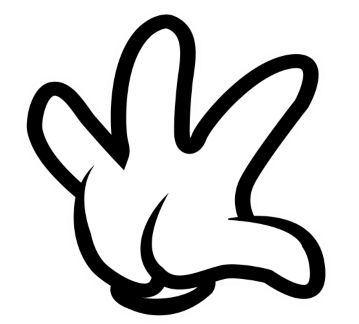
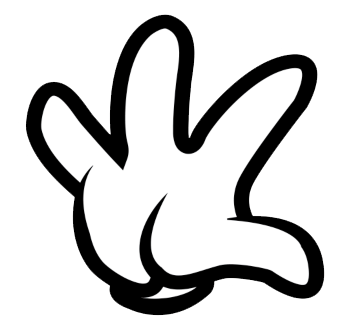
Made The Image better for the Rock hand and the scissior hand. Next Step is to organize the sound files into one folder. Afterwards, Get the Repo ready for Release.

diff --git a/Properties/Resources.Designer.cs b/Properties/Resources.Designer.cs
@@ -63,9 +63,9 @@ namespace Rock_paper_scissors.Properties {
         /// <summary>
         ///   Looks up a localized resource of type System.Drawing.Bitmap.
         /// </summary>
-        internal static System.Drawing.Bitmap Mickey_Rock2trans {
+        internal static System.Drawing.Bitmap MickeyRockBetter {
             get {
-                object obj = ResourceManager.GetObject("Mickey_Rock2trans", resourceCulture);
+                object obj = ResourceManager.GetObject("MickeyRockBetter", resourceCulture);
                 return ((System.Drawing.Bitmap)(obj));
             }
         }
@@ -73,9 +73,9 @@ namespace Rock_paper_scissors.Properties {
         /// <summary>
         ///   Looks up a localized resource of type System.Drawing.Bitmap.
         /// </summary>
-        internal static System.Drawing.Bitmap Mickey_Rock2transFLIPPEDforusebyCPU {
+        internal static System.Drawing.Bitmap MickeyRockBetterfortheplayer {
             get {
-                object obj = ResourceManager.GetObject("Mickey_Rock2transFLIPPEDforusebyCPU", resourceCulture);
+                object obj = ResourceManager.GetObject("MickeyRockBetterfortheplayer", resourceCulture);
                 return ((System.Drawing.Bitmap)(obj));
             }
         }

diff --git a/MainWindow.xaml.cs b/MainWindow.xaml.cs
@@ -73,7 +73,7 @@ namespace Rock_paper_scissors
 
     {
       //Player1_Option_Chosen.Source = new BitmapImage(new Uri("Mickey Rockoldbad.jpg", UriKind.Relative)); //sets the image to rock.
-      Player1_Option_Chosen.Source = new BitmapImage(new Uri("pack://application:,,,/ImagesBeingUsed/Mickey Rock2trans.png")); // loads the paper image 
+      Player1_Option_Chosen.Source = new BitmapImage(new Uri("pack://application:,,,/ImagesBeingUsed/MickeyRockBetterfortheplayer.png")); // loads the paper image 
 
 
 
@@ -143,7 +143,7 @@ namespace Rock_paper_scissors
       if (choicepicked.Equals("rock")) //if choice picked equals rock then load rock image for cpu. 
 
       {
-        Player2_Option_Chosen.Source = new BitmapImage(new Uri(" pack://application:,,,/ImagesBeingUsed/Mickey Rock2transFLIPPEDforusebyCPU.png")); //loads the rock image. 
+        Player2_Option_Chosen.Source = new BitmapImage(new Uri(" pack://application:,,,/ImagesBeingUsed/MickeyRockBetter.png")); //loads the rock image. 
       }
 
 
